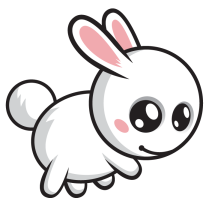
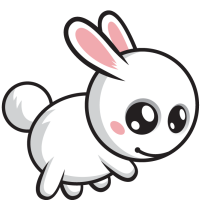
lives and general progress

Changed region(s): [[0.0, 0.0303, 1.0, 1.0], [0.54, 0.6061, 0.57, 0.6364]]

diff --git a/core/src/com/frontanilla/bunny/entities/Bunny.java b/core/src/com/frontanilla/bunny/entities/Bunny.java
@@ -1,6 +1,7 @@
-package com.frontanilla.bunny;
+package com.frontanilla.bunny.entities;
 
 import com.badlogic.gdx.Gdx;
+import com.badlogic.gdx.graphics.Color;
 import com.badlogic.gdx.graphics.Texture;
 import com.badlogic.gdx.graphics.g2d.SpriteBatch;
 import com.badlogic.gdx.math.Vector2;
@@ -11,22 +12,25 @@ public class Bunny extends Collidable {
 
     private float x, y;
     private Vector2 velocity;
-    private Texture texture;
-    boolean jumping, movingLeft, movingRight;
+    boolean jumping, aPressed, dPressed, facingLeft;
 
     public Bunny() {
-        super(new Rectangle(0, 0, 14 * 5, 13 * 5));
+        super(
+                new Rectangle(0, 0, 50, 50),
+                new Texture(Gdx.files.internal("bunny2.png"))
+        );
         velocity = new Vector2();
-        texture = new Texture(Gdx.files.internal("bunny.png"));
         jumping = false;
     }
 
     public Bunny(float x, float y) {
-        super(new Rectangle((int) x, (int) y, 14 * 5, 13 * 5));
+        super(
+                new Rectangle((int) x, (int) y, 50, 50),
+                new Texture(Gdx.files.internal("bunny2.png"))
+        );
         this.x = x;
         this.y = y;
         velocity = new Vector2();
-        texture = new Texture(Gdx.files.internal("bunny.png"));
         jumping = true;
     }
 
@@ -56,22 +60,23 @@ public class Bunny extends Collidable {
     }
 
     public void render(SpriteBatch batch) {
+        batch.setColor(Color.WHITE);
         batch.draw(
                 texture,
                 x,
                 y,
                 texture.getWidth() / 2,
                 texture.getHeight() / 2,
-                texture.getWidth() * 5,
-                texture.getHeight() * 5,
+                50,
+                50,
                 1,
                 1,
                 0,
                 0,
                 0,
-                14,
-                13,
-                movingRight,
+                texture.getWidth(),
+                texture.getHeight(),
+                facingLeft,
                 false
         );
         // TextureRegion region, float x, float y, float originX, float originY, float width, float height,
@@ -83,38 +88,42 @@ public class Bunny extends Collidable {
     }
 
     public void aDown() {
-        if (movingRight) {
+        if (dPressed) {
             velocity.x = 0;
         } else {
             velocity.x = -5;
         }
-        movingLeft = true;
+        aPressed = true;
+        facingLeft = true;
     }
 
     public void aUp() {
-        if (movingRight) {
+        if (dPressed) {
             velocity.x = 5;
+            facingLeft = false;
         } else {
             velocity.x = 0;
         }
-        movingLeft = false;
+        aPressed = false;
     }
 
     public void dDown() {
-        if (movingLeft) {
+        if (aPressed) {
             velocity.x = 0;
         } else {
             velocity.x = 5;
         }
-        movingRight = true;
+        dPressed = true;
+        facingLeft = false;
     }
 
     public void dUp() {
-        if (movingLeft) {
+        if (aPressed) {
             velocity.x = -5;
+            facingLeft = true;
         } else {
             velocity.x = 0;
         }
-        movingRight = false;
+        dPressed = false;
     }
 }

diff --git a/core/src/com/frontanilla/bunny/BunnyGame.java b/core/src/com/frontanilla/bunny/BunnyGame.java
@@ -6,12 +6,18 @@ import com.badlogic.gdx.graphics.Color;
 import com.badlogic.gdx.graphics.GL20;
 import com.badlogic.gdx.graphics.Texture;
 import com.badlogic.gdx.graphics.g2d.SpriteBatch;
+import com.frontanilla.bunny.effects.Rain;
+import com.frontanilla.bunny.entities.EntityObserver;
+import com.frontanilla.bunny.helpers.InputManager;
+import com.frontanilla.bunny.hud.Lives;
 
 public class BunnyGame extends Game {
 
     private SpriteBatch batch;
     private EntityObserver observer;
-    public Texture pixel, ground;
+    private Texture pixel, ground;
+    private Rain rain;
+    private Lives lives;
 
     @Override
     public void create() {
@@ -22,6 +28,9 @@ public class BunnyGame extends Game {
 
         pixel = new Texture("pixel.jpg");
         ground = new Texture("ground.png");
+
+        rain = new Rain();
+        lives = new Lives();
     }
 
     @Override
@@ -30,6 +39,20 @@ public class BunnyGame extends Game {
         Gdx.gl.glClear(GL20.GL_COLOR_BUFFER_BIT);
 
         batch.begin();
+
+        renderGround();
+        renderSky();
+
+        lives.render(batch);
+        rain.render(batch);
+
+        observer.update();
+        observer.render(batch);
+
+        batch.end();
+    }
+
+    private void renderGround() {
         batch.setColor(Color.WHITE);
         for (int i = 0; i < 4; i++) {
             batch.draw(
@@ -40,6 +63,9 @@ public class BunnyGame extends Game {
                     Gdx.graphics.getHeight() * 0.2f
             );
         }
+    }
+
+    private void renderSky() {
         batch.setColor(Color.CYAN);
         batch.draw(
                 pixel,
@@ -48,12 +74,6 @@ public class BunnyGame extends Game {
                 Gdx.graphics.getWidth(),
                 Gdx.graphics.getHeight() * 0.8f
         );
-        batch.setColor(Color.WHITE);
-
-        observer.update();
-        observer.render(batch);
-
-        batch.end();
     }
 
     @Override

diff --git a/core/src/com/frontanilla/bunny/hud/Lives.java b/core/src/com/frontanilla/bunny/hud/Lives.java
@@ -1,0 +1,35 @@
+package com.frontanilla.bunny.hud;
+
+import com.badlogic.gdx.Gdx;
+import com.badlogic.gdx.graphics.Color;
+import com.badlogic.gdx.graphics.Texture;
+import com.badlogic.gdx.graphics.g2d.SpriteBatch;
+
+public class Lives {
+
+    private int quantity;
+    private Texture texture;
+    private float xPos, yPos, spacing, size;
+
+    public Lives() {
+        quantity = 3;
+        texture = new Texture(Gdx.files.internal("bunny.png"));
+        spacing = 40;
+        size = 35;
+        xPos = 5;
+        yPos = Gdx.graphics.getHeight() - spacing;
+    }
+
+    public void render(SpriteBatch batch) {
+        batch.setColor(Color.WHITE);
+        for (int i = 0; i < quantity; i++) {
+            batch.draw(
+                    texture,
+                    xPos + spacing * i,
+                    yPos,
+                    size,
+                    size
+            );
+        }
+    }
+}

diff --git a/core/src/com/frontanilla/bunny/entities/EntityObserver.java b/core/src/com/frontanilla/bunny/entities/EntityObserver.java
@@ -1,9 +1,10 @@
-package com.frontanilla.bunny;
+package com.frontanilla.bunny.entities;
 
 import com.badlogic.gdx.Gdx;
 import com.badlogic.gdx.graphics.g2d.BitmapFont;
 import com.badlogic.gdx.graphics.g2d.SpriteBatch;
 import com.badlogic.gdx.utils.DelayedRemovalArray;
+import com.frontanilla.bunny.helpers.CollisionDetector;
 
 import java.util.Random;
 
@@ -27,7 +28,7 @@ public class EntityObserver {
         collisionDetector.updateCarrots(carrots);
 
         font = new BitmapFont();
-        font.getData().scale(3);
+        font.getData().scale(2);
 
         random = new Random();
     }
@@ -57,8 +58,8 @@ public class EntityObserver {
         font.draw(
                 batch,
                 "" + score,
-                25,
-                Gdx.graphics.getHeight() - 25
+                5,
+                Gdx.graphics.getHeight() - 50
         );
     }
 

diff --git a/core/src/com/frontanilla/bunny/entities/Carrot.java b/core/src/com/frontanilla/bunny/entities/Carrot.java
@@ -1,4 +1,4 @@
-package com.frontanilla.bunny;
+package com.frontanilla.bunny.entities;
 
 import com.badlogic.gdx.Gdx;
 import com.badlogic.gdx.graphics.Texture;
@@ -9,13 +9,14 @@ import java.awt.Rectangle;
 public class Carrot extends Collidable {
 
     private float x, y;
-    private Texture texture;
 
     public Carrot(float x, float y) {
-        super(new Rectangle((int) x, (int) y, 14 * 5, 13 * 5));
+        super(
+                new Rectangle((int) x, (int) y, 14 * 5, 13 * 5),
+                new Texture(Gdx.files.internal("carrot.png"))
+        );
         this.x = x;
         this.y = y;
-        texture = new Texture(Gdx.files.internal("carrot.png"));
     }
 
     public void update() {

diff --git a/core/src/com/frontanilla/bunny/entities/Drop.java b/core/src/com/frontanilla/bunny/entities/Drop.java
@@ -1,0 +1,25 @@
+package com.frontanilla.bunny.entities;
+
+import com.badlogic.gdx.Gdx;
+import com.badlogic.gdx.graphics.Texture;
+import com.badlogic.gdx.graphics.g2d.SpriteBatch;
+
+import java.awt.Rectangle;
+
+public class Drop extends Collidable {
+
+
+    public Drop(Rectangle collisionBox) {
+        super(collisionBox, new Texture(Gdx.files.internal("drop.png")));
+    }
+
+    public void render(SpriteBatch batch) {
+        batch.draw(
+                texture,
+                collisionBox.x,
+                collisionBox.y,
+                collisionBox.width,
+                collisionBox.height
+        );
+    }
+}

diff --git a/core/src/com/frontanilla/bunny/entities/Collidable.java b/core/src/com/frontanilla/bunny/entities/Collidable.java
@@ -1,14 +1,18 @@
-package com.frontanilla.bunny;
+package com.frontanilla.bunny.entities;
 
+
+import com.badlogic.gdx.graphics.Texture;
 
 import java.awt.Rectangle;
 
 public abstract class Collidable {
 
     protected Rectangle collisionBox;
+    protected Texture texture;
 
-    public Collidable(Rectangle collisionBox) {
+    public Collidable(Rectangle collisionBox, Texture texture) {
         this.collisionBox = collisionBox;
+        this.texture = texture;
     }
 
     protected boolean collides(Collidable other) {

diff --git a/core/src/com/frontanilla/bunny/effects/Rain.java b/core/src/com/frontanilla/bunny/effects/Rain.java
@@ -1,0 +1,22 @@
+package com.frontanilla.bunny.effects;
+
+import com.badlogic.gdx.graphics.g2d.SpriteBatch;
+import com.frontanilla.bunny.entities.Drop;
+
+import java.util.ArrayList;
+
+public class Rain {
+
+    private ArrayList<Drop> drops;
+
+    public Rain() {
+        drops = new ArrayList<>();
+    }
+
+    public void render(SpriteBatch batch) {
+        for (Drop d : drops) {
+            d.render(batch);
+        }
+    }
+
+}

diff --git a/core/src/com/frontanilla/bunny/helpers/CollisionDetector.java b/core/src/com/frontanilla/bunny/helpers/CollisionDetector.java
@@ -1,6 +1,8 @@
-package com.frontanilla.bunny;
+package com.frontanilla.bunny.helpers;
 
 import com.badlogic.gdx.utils.DelayedRemovalArray;
+import com.frontanilla.bunny.entities.Bunny;
+import com.frontanilla.bunny.entities.Carrot;
 
 public class CollisionDetector {
 

diff --git a/core/src/com/frontanilla/bunny/helpers/InputManager.java b/core/src/com/frontanilla/bunny/helpers/InputManager.java
@@ -1,7 +1,8 @@
-package com.frontanilla.bunny;
+package com.frontanilla.bunny.helpers;
 
 import com.badlogic.gdx.Input;
 import com.badlogic.gdx.InputAdapter;
+import com.frontanilla.bunny.BunnyGame;
 
 public class InputManager extends InputAdapter {
 
